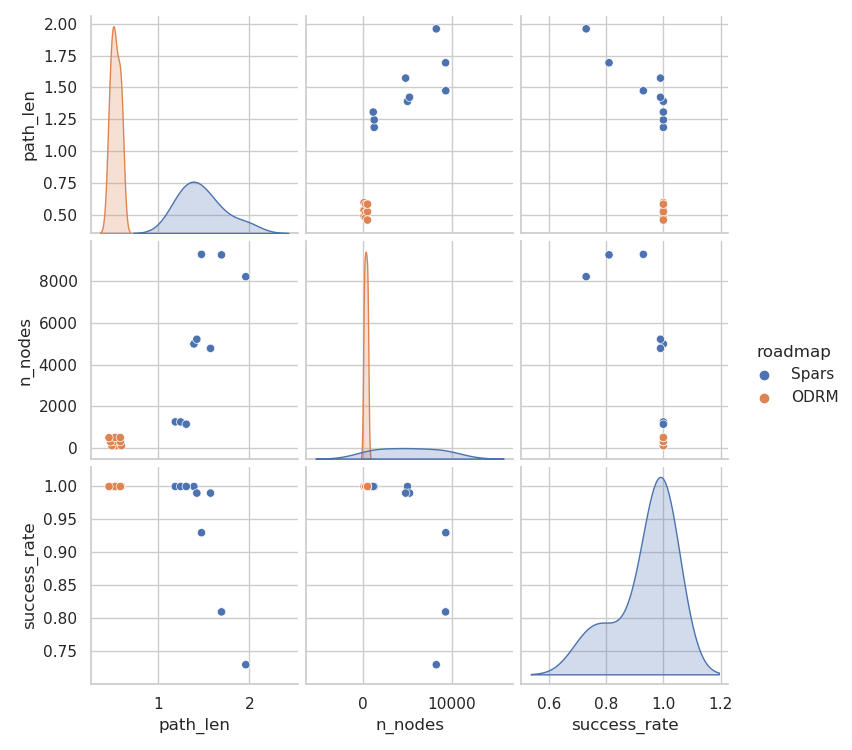
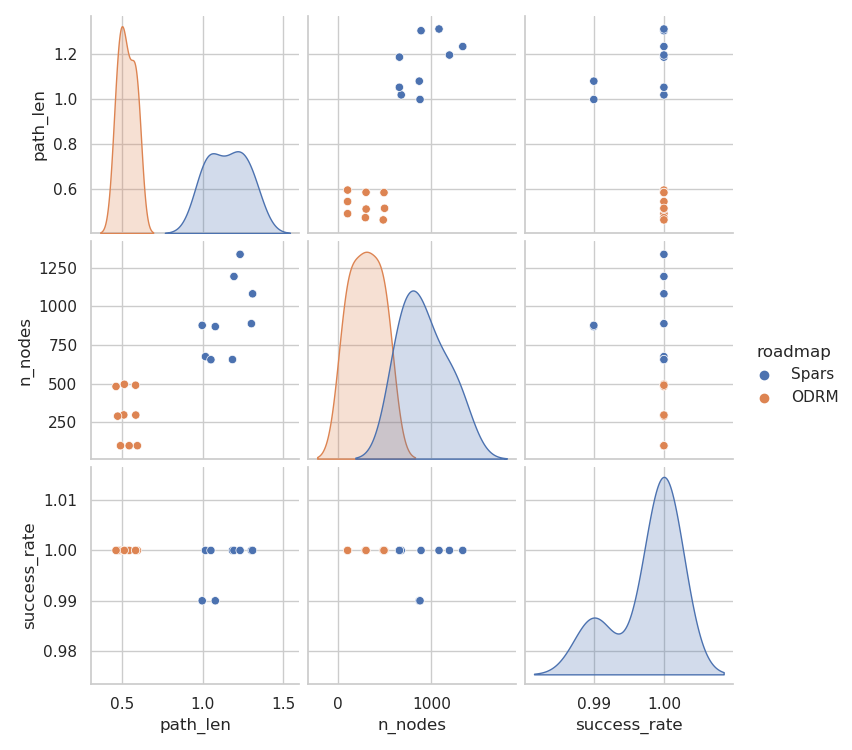
node numbers to match up better

diff --git a/roadmaps/benchmark.py b/roadmaps/benchmark.py
@@ -129,14 +129,14 @@ def run():
 
     trials = [
         (Spars, {
-            "denseDelta":    .7,
-            "sparseDelta":    7.,
+            "denseDelta":    10.,
+            "sparseDelta":    100,
             "stretchFactor": 1.01,
             "maxFailures": 500,
             "maxTime": 1.,
         }), (Spars, {
-            "denseDelta":    1.,
-            "sparseDelta":    10.,
+            "denseDelta":    7.,
+            "sparseDelta":    70.,
             "stretchFactor": 1.01,
             "maxFailures": 500,
             "maxTime": 1.,
